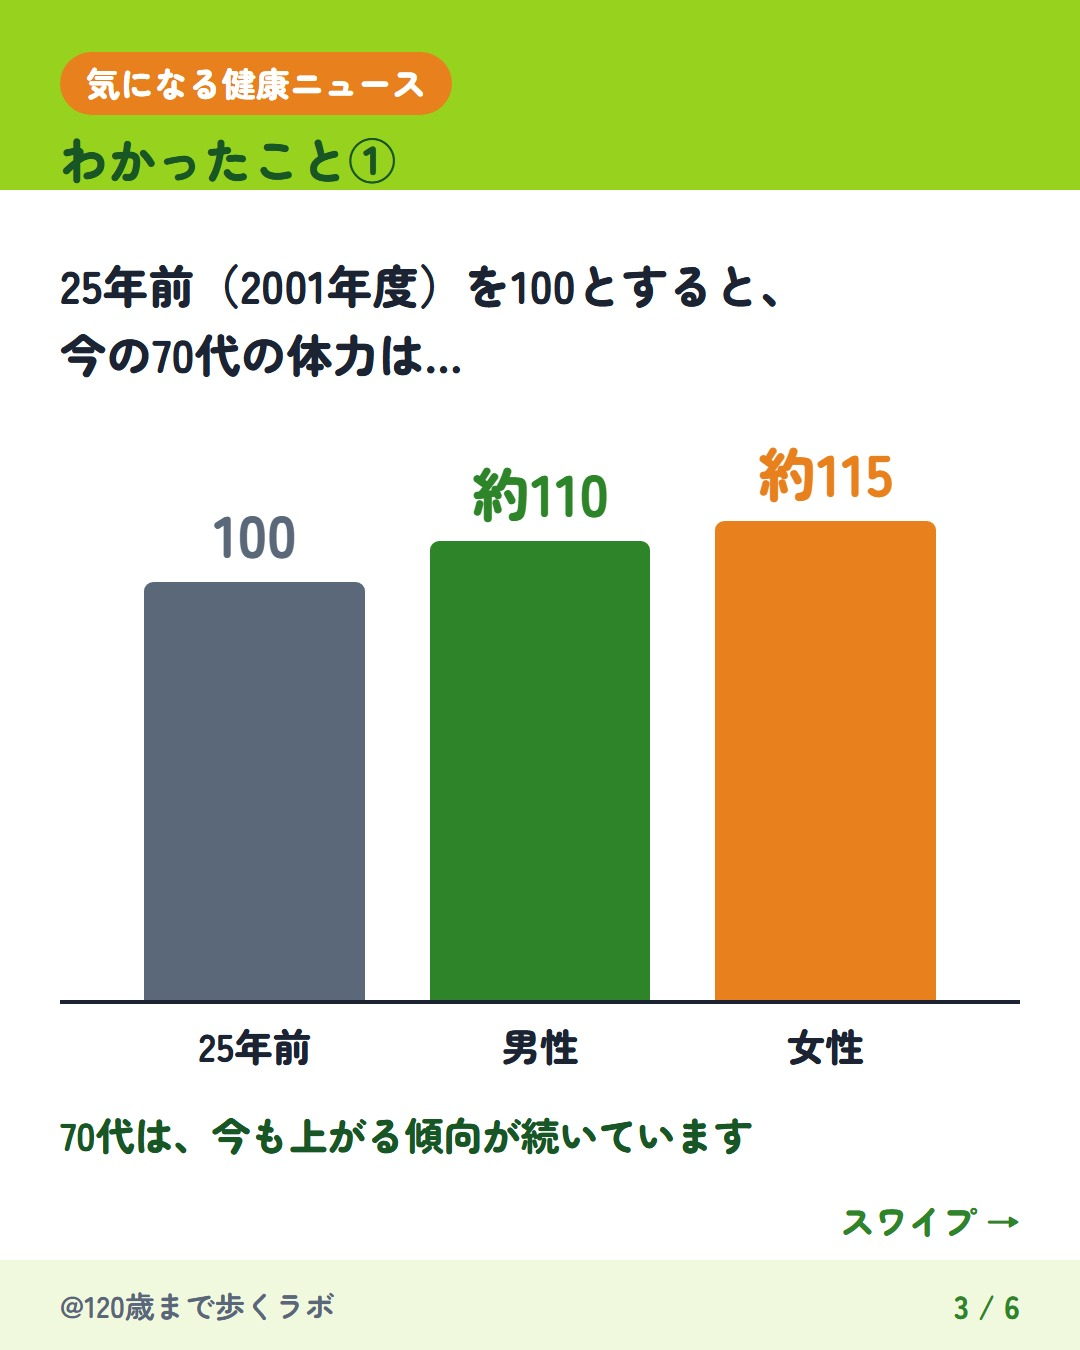
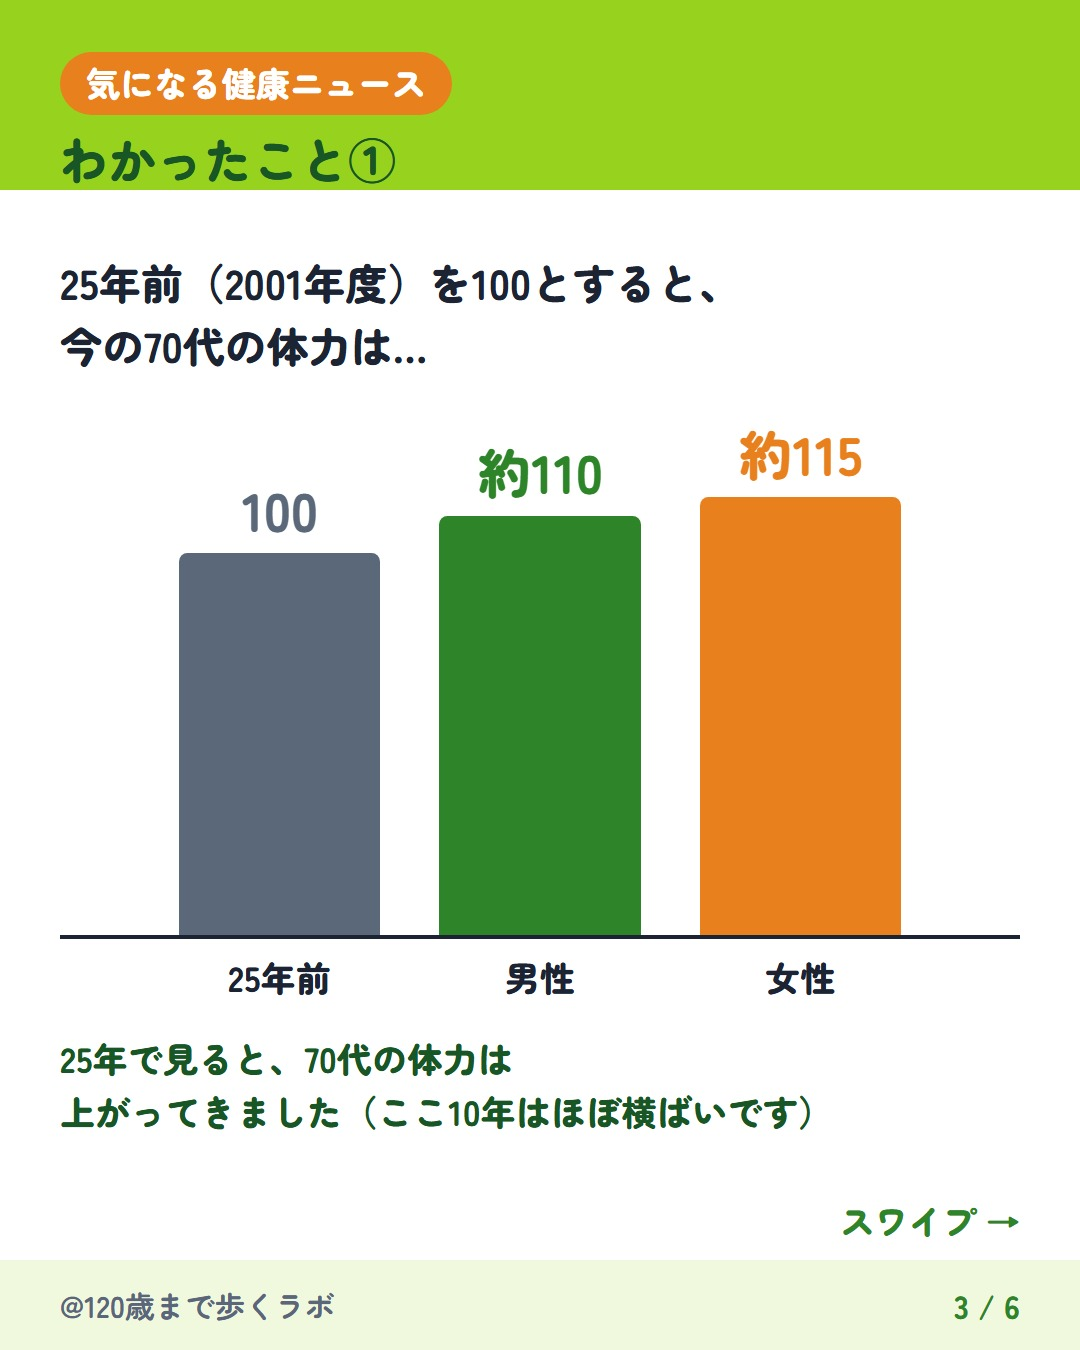
健康ニュース：25年と10年の傾向の書き方を直す・Threads の文を自然に
- 3枚目・キャプション：25年では上昇、ここ10年はほぼ横ばい、と並べて書く
- threads-lib.js：棒グラフ・比べるカードを文に、見出しとタグの重なりを避ける
- CLAUDE.md：長い期間と最近の傾向を混ぜて書かないルール
- threads.json：2・3投稿目を差し替え（1投稿目は公開済みの文のまま）

Changed region(s): [[0.0611, 0.3111, 0.8861, 0.8711], [0.0611, 0.1867, 0.7028, 0.28]]

diff --git a/scripts/threads-lib.js b/scripts/threads-lib.js
@@ -13,8 +13,9 @@ const oneLine = (s) => s.replace(/\n/g, '');
 const len = (s) => [...s].length;
 
 // トピックタグはテーマに近いもの1つ（必須タグ以外の最初のもの）。Threads で使えない記号は除く
-function topicTag(post) {
-  const tag = (post.hashtags || []).find((t) => !REQUIRED_TAGS.includes(t)) || '';
+// skip に入っている文字と重なるタグ（例：見出しの【気になる健康ニュース】と #健康ニュース）は使わない
+function topicTag(post, skip = '') {
+  const tag = (post.hashtags || []).find((t) => !REQUIRED_TAGS.includes(t) && !(skip && (skip.includes(t) || t.includes(skip)))) || '';
   const clean = tag.replace(/[#\s.&＆・、。]/g, '');
   return clean ? '#' + clean : '';
 }
@@ -22,12 +23,24 @@ function topicTag(post) {
 // 気になる健康ニュース（slides がある投稿）の1枚分を文章にする
 function slideText(s) {
   const o = (t) => oneLine(String(t ?? ''));
+  // 文の終わりに「。」を付ける
+  const sentence = (t) => (/[。！？!?]$/.test(t) ? t : t + '。');
   // bignum は「lead＋text＋大きな数字」で1つの文になるので、続けてつなぐ
-  if (s.type === 'bignum') return [o(s.lead) + o(s.text) + o(s.number), o(s.foot)].filter(Boolean).join('\n');
-  const parts = [o(s.lead)];
-  if (s.type === 'facts') parts.push((s.items || []).map((it) => `・${o(it.label)}：${o(it.value)}`).join('\n'));
-  if (s.type === 'bars') parts.push((s.bars || []).map((b) => `${o(b.label)} ${o(b.display ?? b.value)}`).join('、'));
-  if (s.type === 'compare') parts.push((s.cards || []).map((k) => `${o(k.label)} ${o(k.value)}`).join('、'));
+  if (s.type === 'bignum') return [sentence(o(s.lead) + o(s.text) + o(s.number)), o(s.foot)].filter(Boolean).join('\n');
+  const parts = [];
+  if (s.type === 'facts') parts.push(o(s.lead), (s.items || []).map((it) => `・${o(it.label)}：${o(it.value)}`).join('\n'));
+  if (s.type === 'bars') {
+    // 1本目を基準として、「25年前を100とすると、男性が約110、女性が約115です。」のような1つの文にする
+    const [base, ...others] = s.bars || [];
+    const head = s.lead ? o(s.lead).replace(/(…|\.\.\.|：|:)+$/, '') : base ? `${o(base.label)}を${o(base.display ?? base.value)}とすると` : '';
+    const list = others.map((b) => `${o(b.label)}が${o(b.display ?? b.value)}`).join('、');
+    parts.push(head && list ? `${head}、${list}です。` : head || list);
+  }
+  if (s.type === 'compare') {
+    // 「…割合が高い。男性は約9ポイント高い、女性は約10ポイント高い結果でした。」
+    const list = (s.cards || []).map((k) => `${o(k.label)}は${o(k.value)}`).join('、');
+    parts.push([s.lead ? sentence(o(s.lead)) : '', list ? `${list}結果でした。` : ''].join(''));
+  }
   parts.push(o(s.foot));
   return parts.filter(Boolean).join('\n');
 }
@@ -40,8 +53,9 @@ function buildNewsThreadTexts(post) {
   const lines = post.caption.split('\n').map((l) => l.trim());
   const question = lines.find((l) => l) || oneLine(post.cover.title);
   const sources = lines.find((l) => l.startsWith('参考：')) || '';
-  const tag = topicTag(post);
   const label = post.cover.tag || '気になる健康ニュース';
+  // 見出しに【気になる健康ニュース】があるので、トピックタグは別のものにする（同じ言葉が2回出ないように）
+  const tag = topicTag(post, label);
   const actions = post.slides.find((s) => s.type === 'actions');
   const rest = post.slides.filter((s) => s.type !== 'actions');
   const first = rest.find((s) => s.type !== 'facts') || rest[0];
@@ -55,7 +69,8 @@ function buildNewsThreadTexts(post) {
   ].filter(Boolean).join('\n\n');
 
   const t2 = [
-    ...rest.filter((s) => s !== first).map((s) => `▼${oneLine(s.heading)}\n${slideText(s)}`),
+    // 見出しの丸数字（わかったこと②など）は、①が1投稿目にあって番号が飛ぶので外す
+    ...rest.filter((s) => s !== first).map((s) => `▼${oneLine(s.heading).replace(/[①-⑳]/g, '')}\n${slideText(s)}`),
     sources,
   ].filter(Boolean).join('\n\n');
 

diff --git a/CLAUDE.md b/CLAUDE.md
@@ -180,6 +180,7 @@
 - 文字量の目安：表紙タイトル1行6文字×3行、lead は \n で1行18文字以内、actions の1項目は1行14文字以内×3行まで。はみ出しそうなときは自動で縮むが、render した画像で必ず確認する
 - 根拠のルールは「情報の根拠」と同じ。発表資料（報道発表・PDF）の数字だけを使い、資料で確かめられない数字は使わない
   - 調査の結果を伝えるときは、「関係があった」ことと「効果があった」ことを分けて書く（例：「運動と体力の関係を見た調査で、運動したから体力が上がったとまでは言えません」）
+  - 長い期間の傾向と最近の傾向を混ぜて書かない（例：25年では上昇、10年では横ばい）。どちらの期間の話かをはっきり書き、両方を出すときは「25年で見ると上がってきました（ここ10年はほぼ横ばいです）」のように並べて書く。スライド・キャプション・Threads で食い違わないようにする
   - actions の note に「痛みやふらつきがある方は、かかりつけ医にご相談ください。」などの一文を入れる
 - キャプションの最初の1行は読者の思い込みや悩みに触れ、次に【気になる健康ニュース】と発表の中身を書く。最後に「参考：機関名「資料名」（年）」
 - Threads は今までどおり3連投。threads.json がなければ slides から自動で作る（scripts/threads-lib.js の buildNewsThreadTexts）
